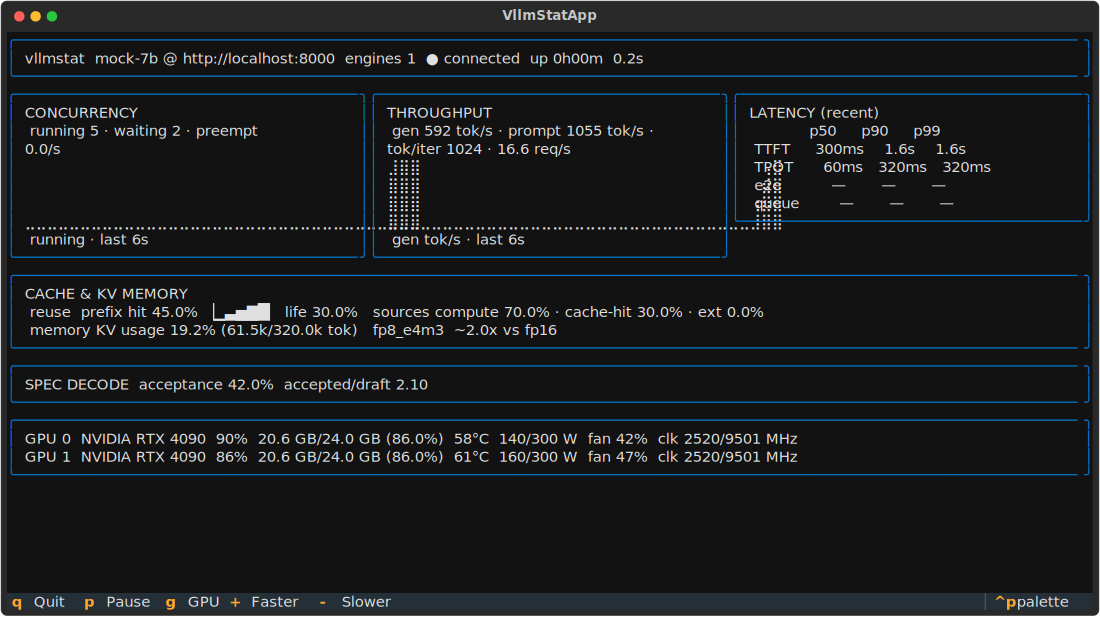
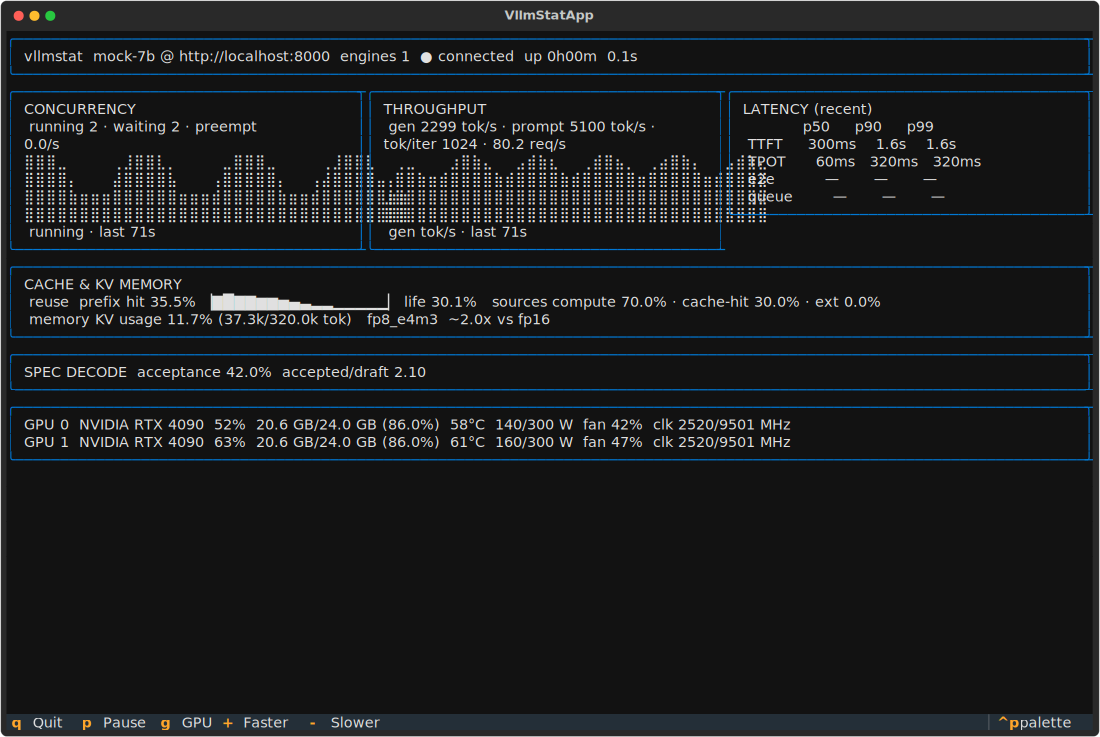
fix(ui): cap cache sparkline to prevent line wrap; margin braille plots
The prefix-hit sparkline grew with history and wrapped the cache line;
cap it to the last 16 points. Give braille plots a 2-col right margin.

Changed region(s): [[0.0, 0.0, 1.0, 0.7699], [0.0, 0.9546, 1.0, 1.0]]

diff --git a/src/vllmstat/render.py b/src/vllmstat/render.py
@@ -13,7 +13,8 @@ _MIN_PLOT_WIDTH = 8
 def _plot_width(width: int | None) -> int:
     if not width or width <= 0:
         return _DEFAULT_PLOT_WIDTH
-    return max(_MIN_PLOT_WIDTH, int(width))
+    # Leave a small right margin so braille cells never touch the panel border.
+    return max(_MIN_PLOT_WIDTH, int(width) - 2)
 
 
 def header(s: Snapshot, *, url: str, interval: float, uptime: str) -> str:
@@ -52,7 +53,8 @@ def throughput(s: Snapshot, h: History, *, width: int | None = None) -> str:
 
 
 def cache_kv(s: Snapshot, h: History) -> str:
-    hit_spark = sparkline(list(h.series("prefix_hit").values))
+    # Cap the inline sparkline so the line never grows long enough to wrap.
+    hit_spark = sparkline(list(h.series("prefix_hit").values)[-16:])
     src = (
         f"compute {fmt_pct(s.src_compute)} · "
         f"cache-hit {fmt_pct(s.src_cache_hit)} · ext {fmt_pct(s.src_external)}"